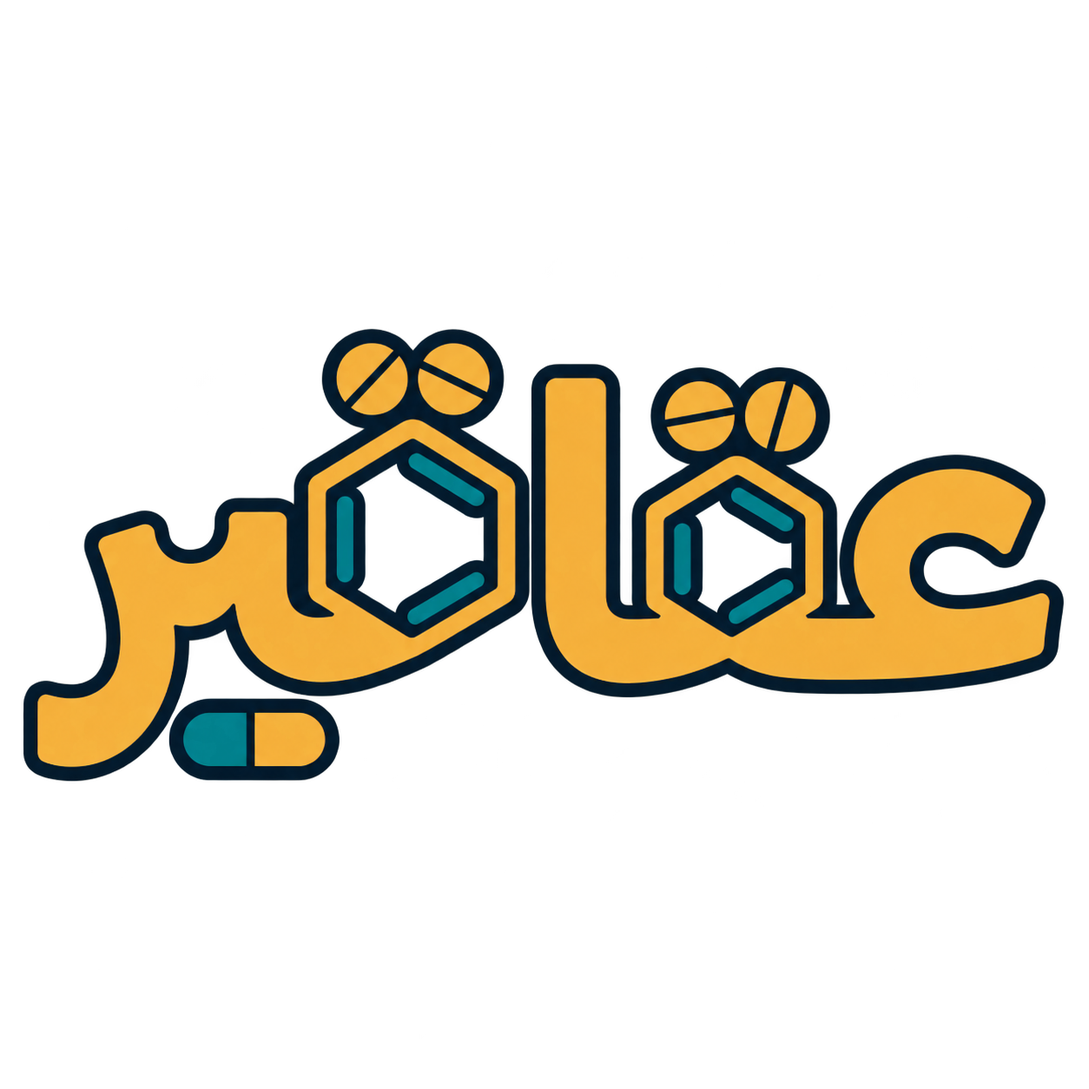
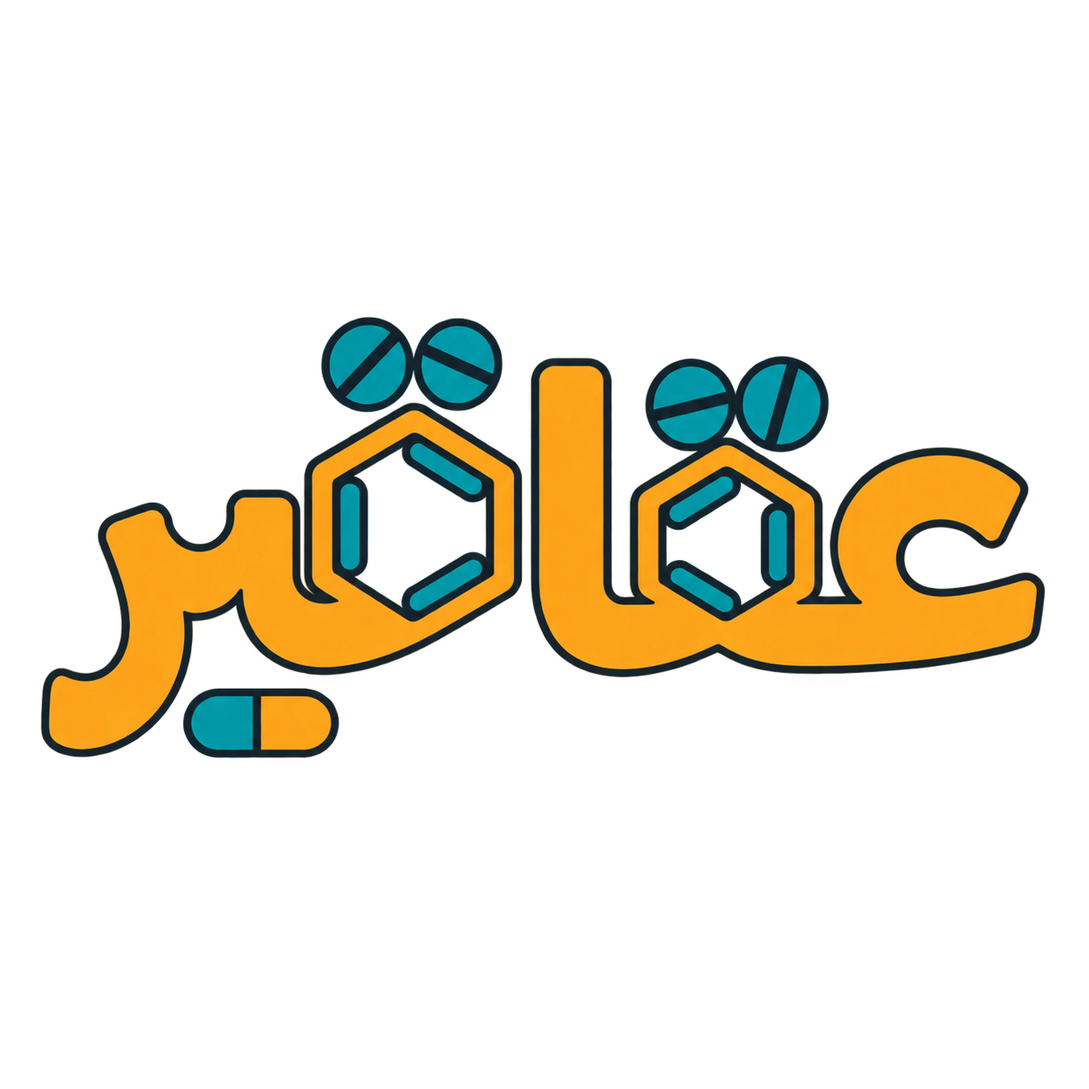
Refactor splash screen animation and artwork
- Updated the splash exit animation to scale the logo from its native size to 1.6x while fading out, replacing the previous internal ring rotation.
- Introduced a new `SplashArtwork` object for shared bitmap decoding of the launcher artwork.
- Revised the launcher artwork to soften the gold and adjust the outline, ensuring a flatter finish while retaining key design elements.
- Updated documentation to reflect changes in branding and splash screen behavior.
- Added new prompts for artwork adjustments and maintained a clean repository by removing obsolete artwork links.

Changed region(s): [[0.0, 0.2799, 0.9952, 0.7153]]

diff --git a/app/src/main/kotlin/com/aqaqeer/app/ui/SplashExit.kt b/app/src/main/kotlin/com/aqaqeer/app/ui/SplashExit.kt
@@ -12,6 +12,7 @@ import android.view.ViewGroup
 import android.view.ViewTreeObserver
 import android.view.animation.PathInterpolator
 import android.widget.FrameLayout
+import android.widget.ImageView
 import androidx.core.splashscreen.SplashScreenViewProvider
 import kotlinx.coroutines.suspendCancellableCoroutine
 import kotlin.coroutines.resume
@@ -38,7 +39,7 @@ internal suspend fun awaitSplashLayout(decor: ViewGroup) {
     }
 }
 
-/** Counter-rotating internal ring lines, followed by a fade into the ready application. */
+/** Enlarge the complete emblem while fading into the ready application. */
 internal fun animateSplashExit(provider: SplashScreenViewProvider, decor: ViewGroup, background: Int, bitmap: Bitmap): Animator? {
     if (!ValueAnimator.areAnimatorsEnabled() || decor.width == 0 || decor.height == 0) {
         provider.remove()
@@ -50,7 +51,7 @@ internal fun animateSplashExit(provider: SplashScreenViewProvider, decor: ViewGr
     val icon = provider.iconView
     val iconLocation = IntArray(2).also(icon::getLocationOnScreen)
     val decorLocation = IntArray(2).also(decor::getLocationOnScreen)
-    // Keep the full logo stationary at the native splash size and center, without its icon mask.
+    // Begin at the native splash size and center, then grow the complete unmasked artwork.
     val nativeEdge = if (icon.width > 0) icon.width * 0.66f else 190f * density
     val edge = minOf(nativeEdge, width * 0.86f, height * 0.62f, 420f * density).toInt().coerceAtLeast(1)
     val centerX = if (icon.width > 0) iconLocation[0] - decorLocation[0] + icon.width / 2 else width / 2
@@ -61,7 +62,12 @@ internal fun animateSplashExit(provider: SplashScreenViewProvider, decor: ViewGr
         isClickable = false
         isFocusable = false
     }
-    val emblem = SplashEmblemView(decor.context, bitmap)
+    val emblem = ImageView(decor.context).apply {
+        scaleType = ImageView.ScaleType.FIT_CENTER
+        setImageBitmap(bitmap)
+        pivotX = edge / 2f
+        pivotY = edge / 2f
+    }
     layer.addView(emblem, FrameLayout.LayoutParams(edge, edge, Gravity.TOP or Gravity.LEFT).apply {
         leftMargin = centerX - edge / 2
         topMargin = centerY - edge / 2
@@ -75,19 +81,23 @@ internal fun animateSplashExit(provider: SplashScreenViewProvider, decor: ViewGr
     layer.layout(0, 0, width, height)
     provider.remove()
     return AnimatorSet().apply {
-        val rings = ValueAnimator.ofFloat(0f, 360f).apply {
-            duration = 640
-            interpolator = PathInterpolator(0.4f, 0f, 0.2f, 1f)
-            addUpdateListener { emblem.ringDegrees = it.animatedValue as Float }
+        playTogether(
+            ObjectAnimator.ofFloat(emblem, View.SCALE_X, 1f, 1.6f),
+            ObjectAnimator.ofFloat(emblem, View.SCALE_Y, 1f, 1.6f),
+            ObjectAnimator.ofFloat(layer, View.ALPHA, 1f, 0f),
+        )
+        duration = 600
+        interpolator = PathInterpolator(0.22f, 0f, 0.2f, 1f)
+        var removed = false
+        fun removeLayer() {
+            if (!removed) {
+                removed = true
+                decor.removeView(layer)
+            }
         }
-        val fade = ObjectAnimator.ofFloat(layer, View.ALPHA, 1f, 0f).apply {
-            duration = 160
-            startDelay = 560
-            interpolator = PathInterpolator(0.22f, 0f, 0.2f, 1f)
-        }
-        playTogether(rings, fade)
         addListener(object : AnimatorListenerAdapter() {
-            override fun onAnimationEnd(animation: Animator) { decor.removeView(layer) }
+            override fun onAnimationCancel(animation: Animator) { removeLayer() }
+            override fun onAnimationEnd(animation: Animator) { removeLayer() }
         })
         start()
     }

diff --git a/app/src/main/kotlin/com/aqaqeer/app/ui/SplashArtwork.kt b/app/src/main/kotlin/com/aqaqeer/app/ui/SplashArtwork.kt
@@ -1,0 +1,15 @@
+package com.aqaqeer.app.ui
+
+import android.content.res.Resources
+import android.graphics.Bitmap
+import android.graphics.BitmapFactory
+import com.aqaqeer.app.R
+
+/** Shares a bounded decode of the selected launcher artwork with the splash exit. */
+internal object SplashArtwork {
+    private var cached: Bitmap? = null
+    @Synchronized fun bitmap(resources: Resources): Bitmap = cached ?: requireNotNull(
+        BitmapFactory.decodeResource(resources, R.drawable.aqaqeer_launcher,
+            BitmapFactory.Options().apply { inSampleSize = 2; inScaled = false })
+    ).also { cached = it }
+}

diff --git a/docs/validation.md b/docs/validation.md
@@ -2,11 +2,23 @@
 
 [Requirements](requirements.md) define acceptance; [plan](plan.md) owns remaining work. The evidence manifest (local-only: `../local/verification/manifest.json`) retains original results, public hashes and provenance. Ignored evidence may be absent in fresh checkouts. Source checks, compilation, runtime results and human acceptance remain distinct.
 
+## Softer gold artwork — 2026-11-17
+
+Used built-in imagegen to soften the heavy outline/finish while retaining rich warm gold, then applied the user's successive refinements: complementary fixed teal bonds in the right ring, bolder split lines in the four round tablet dots, a teal tablet-colour trial with a requested 10% enlargement, followed by a requested 5% reduction from that trial. The exact [edit prompts](../assets/branding/launcher-tablets-prompt.txt) are retained with [provenance](../assets/branding/launcher-revision.md). Percentages describe generation targets, not a measured pixel-exact resize. Visually reviewed the final arrangement; restored a square canvas after a rectangular intermediate output. The selected result is a 1254 × 1254 RGBA PNG with alpha 0–255 and fully transparent corners. Generated edits are not pixel-preserving.
+
[1 lines of base64/hex data omitted]
+
+## Current artwork references — 2026-11-17
+
[1 lines of base64/hex data omitted]
+
+The source-only repository integrity check and whitespace check passed with no reported problems. Documentation-only changes; no artwork bytes, production code, tests, builds, lint, devices or versions were changed or executed. Android visual acceptance remains unverified.
+
 ## String resource organization — 2026-11-17
 
 At starting revision `136dd94`, renamed all 756 numbered UI string identifiers using reviewed feature/purpose/role names and retained 114 existing semantic identifiers. Moved all 870 entries from strings_ui.xml, strings_review.xml and review_strings.xml into twelve feature-based strings files, then removed the three original files. Kept the main/demo app_name files unchanged. Updated 900 explicit resource references across 39 source files, including identifier-only edits in nine test files; no UI tags, saved keys, assertions, business behavior or displayed copy were edited.
 
-Static checks accounted for each entry exactly once with a unique target name/file and compared each raw XML entry byte-for-byte after restoring its old name: text, quoting/escapes, placeholders and attributes match the starting entries. XML/configuration-name/reference checks passed; no old numbered identifiers or unresolved string references remain in checked production/flavor/test/helper/document paths. Compared every edited source file with its original after applying only the reference mapping; all matched, including the test files. Whitespace checks passed. The repository integrity check still reports the two pre-existing missing artwork links in assets/branding/launcher-revision.md; this unrelated failure is not a full-check pass.
+Static checks accounted for each entry exactly once with a unique target name/file and compared each raw XML entry byte-for-byte after restoring its old name: text, quoting/escapes, placeholders and attributes match the starting entries. XML/configuration-name/reference checks passed; no old numbered identifiers or unresolved string references remain in checked production/flavor/test/helper/document paths. Compared every edited source file with its original after applying only the reference mapping; all matched, including the test files. Whitespace checks passed. At that checkpoint, the repository integrity check reported two obsolete artwork links; the later current-artwork cleanup recorded above resolves them.
 
 Tests were inspected/edited only for resource references; none were authored or executed. No Gradle, compilation/resource processing, build, packaging, lint, workflow dispatch, migrations, versions or devices were involved. Android rendering and compilation remain unverified; [remaining acceptance](plan.md#string-resource-organization--source-implemented--2026-11-17) requires separate authorization.
 
@@ -14,7 +26,7 @@ Tests were inspected/edited only for resource references; none were authored or 
 
 Implemented the approved production-source batch: close/finite-duration snackbars; session-only, content-scoped Home notice/card-tip dismissal with individually filtered expanded actions; preserved backup snooze and business guards; Home grid/bulk/bottom rendering extraction and current-callback action bundles; Material button/chip/dialog/card wrappers; typed routes with existing saved encodings/draft keys; explicit field instructions, saveable visited flags and unsaved secrets/visibility; icon/dimension/motion/leading/shape tokens; subtly lifted AMOLED containers; unchanged status palettes in explicitly app-theme-qualified resources; explicit accent roles/info tone; configuration-scoped UI string/theme reads, shared badge presentation and contact email; and the repository literal guard. Existing adaptive phone columns, selection/projection guards, clocks and edge animation remain.
 
-Work began at `aa0fdc3`; HEAD advanced through `c54371f`, `6f60e36` and `ddcaedf`, incorporating source batches during work. Rechecked current production files and preserved those commits. Production call-site/state/semantics review, a lexical delimiter inspection of 47 UI Kotlin files, production string/colour-reference and XML checks, and whitespace checks found no relevant issue. Compared both status resource palettes and all existing default string resources against the starting revision: existing values/IDs were preserved. The source-only repository checker found no UI literal-policy violation but reported two pre-existing missing artwork links in assets/branding/launcher-revision.md (aqaqeer-icon-gold-teal.png and aqaqeer-icon-gold-teal-navy.png); the full checker is therefore not a pass.
+Work began at `aa0fdc3`; HEAD advanced through `c54371f`, `6f60e36` and `ddcaedf`, incorporating source batches during work. Rechecked current production files and preserved those commits. Production call-site/state/semantics review, a lexical delimiter inspection of 47 UI Kotlin files, production string/colour-reference and XML checks, and whitespace checks found no relevant issue. Compared both status resource palettes and all existing default string resources against the starting revision: existing values/IDs were preserved. At that checkpoint, the source-only repository checker found no UI literal-policy violation but reported two obsolete artwork links; the later current-artwork cleanup recorded above resolves them.
 
 No tests were inspected/authored/executed; no Gradle, compilation, builds, packaging, lint, workflow dispatch, migration or device work occurred. Compilation (including existing test call-site compatibility), Android rendering/lifecycle/accessibility and measured performance remain unverified. Existing build/runtime results predate this batch. [Remaining acceptance and deferrals](plan.md#android-ui-cleanup--source-implemented--2026-11-17) are tracked separately; performance tooling remains prioritized planning only.
 
@@ -50,11 +62,12 @@ At the user’s request, removed Home’s four projection placeholders and the s
 
 Removed the redundant additional-results hint/count and other-section shortcut chips beneath Home search at the user’s request. Section-grouped other-section results, tab availability markers and normal search/filter counts remain. Production call-site/delimiter, changed-document local-link and whitespace checks passed; no tests, builds, compilation, lint, workflow or device execution occurred. This source change also postdates the latest hosted build.
 
-## Splash internal-ring animation revision — 2026-11-17
+<a id="splash-internal-ring-animation-revision--2026-11-17"></a>
+## Splash growth and fade — 2026-11-17
 
-User reported the previous splash animation was not working and specified that only the internal ring lines should animate, using `assets/branding/aqaqeer-icon-gold-teal-navy-bold.png` as the current logo. Confirmed that master matches the packaged launcher PNG byte-for-byte. Native splash and its exit now use that PNG; the other in-app bitmap is unchanged. Added two measured masks containing all 5,319/4,290 core teal stroke pixels respectively, with no core gold fill (alpha >128; teal/gold color thresholds inspected), and a source-pixel Canvas view that counter-rotates those regions once over 640 ms while lettering/gold contours remain fixed. The 160 ms fade begins at 560 ms, ending at 720 ms. Both source and destination are clipped; selected PNG bytes are unchanged.
+At the user's request, replaced the internal-ring rotation with uniform whole-logo growth and simultaneous fade. SplashExit now uses a standard ImageView and synchronized 600 ms scale-X/scale-Y (1× to 1.6×) and layer-opacity (1 to 0) animations around the native splash center, with no delayed fade. Removed the custom masked ring view and retained its bounded shared bitmap decode in SplashArtwork. Completion and cancellation remove the attached layer idempotently. Local-readiness gating, IO decoding, valid-layout hand-off, disabled-animation bypass, theme backgrounds and current artwork bytes remain unchanged.
 
-The earlier exit returned immediately on zero-size decor bounds and lasted only 260 ms. These are source observations, not an established cause on the user’s device. The revised lifecycle coroutine awaits valid layout; an ordinary attached decor child replaces the drawing overlay, and completion/cancellation removes it. Disabled animations bypass it and cancellation before hand-off removes the native splash. Source call-site/delimiter/XML/resource, mask-to-master pixel analysis, changed-document local-link and whitespace checks passed. No tests, Gradle, compilation, lint, workflow or device execution occurred; the latest hosted build predates this change. Actual Android visibility/timing, warm/cold starts, disabled/reduced motion, zero-size/layout cancellation and physical visual acceptance remain unverified. HEAD advanced from `5d0a123` to `c83bb8c` during work, incorporating the source batch; rechecked current source/resources and preserved the concurrent commits.
+Reviewed production call sites, animator properties, placement and cleanup paths; source-only repository integrity and whitespace checks passed. No tests were inspected/authored/run; no Gradle, compilation, build, packaging, lint, workflow or device execution occurred. Earlier hosted builds predate this revision. Actual growth/fade rendering, native-to-overlay continuity, normal/reduced/disabled motion, cold/warm startup and cancellation remain unverified; remaining acceptance is in I3 in the plan. This supersedes the earlier source-only internal-ring design.
 
 ## Search controls and direct admin edit — 2026-11-17
 

diff --git a/docs/plan.md b/docs/plan.md
@@ -9,7 +9,6 @@ The approved source batch adds session dismissal controls, finite snackbars, foc
 | ID / priority | Dependency | Remaining work / acceptance |
 | --- | --- | --- |
 | U1 / P1 — Compile and Android acceptance | Separate build/test/device or hosted authorization | Both flavors; snackbar close/timeout/Undo/View and route ownership; independent notice/card-tip dismissal across navigation/rotation, changed content and new sessions; unchanged backup snooze/domain blocks; restored navigation/draft keys and role restrictions; forms/secret visibility and validation; grid keys/scroll/bulk/editor guards, phone two-column layout, large text/IME/wide panes, all accents and manual light/dark/AMOLED contrast. |
-| U2 / P2 — Source integrity links | Separate decision for unrelated artwork records | The full source-only checker reports two pre-existing missing artwork links in assets/branding/launcher-revision.md; no UI token/resource/delimiter/whitespace finding was observed. |
 
 Deferred: image/font reduction, component gallery and screenshot testing. Preserve current assets, adaptive columns and lifecycle clocks; no measured performance improvement is claimed.
 
@@ -27,7 +26,7 @@ Approved production changes cover initial-v1 attribution-free storage/files, tim
 | --- | --- | --- |
 | I1 / P1 — Generated schema | Separate compilation/KSP authorization | Regenerate and review the initial Room version-1 export from current models. The retained export is historical; do not handwrite its identity hash. |
 | I2 / P1 — Compilation and format acceptance | Separate authorization; I1 | Hosted workflow 03 passed both production/JVM flavor compilations and 545 JVM cases per flavor, including initial-format rejection/round trips and merge ordering. Remaining: Android instrumentation compilation/runtime, fresh initialization and non-destructive incompatible-database acceptance. The later [workflow 10 debug build](validation.md#hosted-debug-publication--2026-11-17) compiled/packaged both flavors at `e9dadd4` without running tests. No conversions are in scope. |
-| I3 / P1 — UI/session acceptance | Separate authorization; I2 | All four search/tab placements, large text, narrow/wide layouts, stable selection, role restrictions, refresh failures/no-change fetches, marker accumulation/refresh and current-plus-next session lifetime, task/process versus rotation/backgrounding, Sunday/midnight boundaries. Check Home result retention during typing/filtering/availability saves, pharmacy/section/grouping/role invalidation and fresh-only bulk select-visible; large pending-review scrolling/filtering with retained conflict choices and unchanged publication/recovery controls; off-main splash decode and cancellation before hand-off. Check the revised gold/teal/navy launcher artwork, embedded outline, transparency and normal/round icon rendering across launcher backgrounds; check the revised stationary-logo splash with counter-rotating internal teal lines and fade at normal/reduced/disabled system animation scales, cold/warm launch and cancellation, Settings option alignment/independent labels, swatches, direct bordered preview and narrow/large-text scrolling, fresh initial demo revision-1 initialization with 80 explicit non-UNKNOWN pairs, initial grouping-off display and Settings enable/mode persistence, compact drawer spacing/48 dp targets, bordered icon headings/expanded state, Arabic alphabetical category order with Uncategorized last, and wrapped large-text labels, History, menus, forms, disclosures and previews, including the revised 24 dp dosage-form vectors in light/dark/AMOLED and compact bottom-search/filter sizing with normal/large Arabic text, clear action and keyboard, including a stationary pharmacy toolbar during keyboard show/hide; verify reader AVAILABLE/LOW visibility, section-grouped cross-section results without the redundant hint/count/chips below search, and demo «لانزابين» tab availability markers (including active-section-first result groups, empty-current matches, per-section card statuses/keys, bulk isolation, already-visible IDs, LOW and cleared queries), reset and admin sign-in/sign-out freshness, admin Available-only toggling, distinct extra-filter section/scrolling and sheet synchronization, reader inline fetched-chip/clear-action sizing in both placements, rounded tab borders/filled selected tabs and contrast in all themes and both placements, absence of separate quick bars, and fetched-chip appearance/disappearance while retaining a selected filter. |
+| I3 / P1 — UI/session acceptance | Separate authorization; I2 | All four search/tab placements, large text, narrow/wide layouts, stable selection, role restrictions, refresh failures/no-change fetches, marker accumulation/refresh and current-plus-next session lifetime, task/process versus rotation/backgrounding, Sunday/midnight boundaries. Check Home result retention during typing/filtering/availability saves, pharmacy/section/grouping/role invalidation and fresh-only bulk select-visible; large pending-review scrolling/filtering with retained conflict choices and unchanged publication/recovery controls; off-main splash decode and cancellation before hand-off. Check the softened gold/teal/navy launcher/splash artwork, retained rich gold, thinner slate outline, complementary fixed ring bonds, teal tablets/bolder split lines and final sizing, transparency and normal/round icon rendering across launcher backgrounds; check the revised whole-logo growth/fade splash (1× to 1.6× over 600 ms, fixed center, no spinning parts) at normal/reduced/disabled system animation scales, cold/warm launch and cancellation, Settings option alignment/independent labels, swatches, direct bordered preview and narrow/large-text scrolling, fresh initial demo revision-1 initialization with 80 explicit non-UNKNOWN pairs, initial grouping-off display and Settings enable/mode persistence, compact drawer spacing/48 dp targets, bordered icon headings/expanded state, Arabic alphabetical category order with Uncategorized last, and wrapped large-text labels, History, menus, forms, disclosures and previews, including the revised 24 dp dosage-form vectors in light/dark/AMOLED and compact bottom-search/filter sizing with normal/large Arabic text, clear action and keyboard, including a stationary pharmacy toolbar during keyboard show/hide; verify reader AVAILABLE/LOW visibility, section-grouped cross-section results without the redundant hint/count/chips below search, and demo «لانزابين» tab availability markers (including active-section-first result groups, empty-current matches, per-section card statuses/keys, bulk isolation, already-visible IDs, LOW and cleared queries), reset and admin sign-in/sign-out freshness, admin Available-only toggling, distinct extra-filter section/scrolling and sheet synchronization, reader inline fetched-chip/clear-action sizing in both placements, rounded tab borders/filled selected tabs and contrast in all themes and both placements, absence of separate quick bars, and fetched-chip appearance/disappearance while retaining a selected filter. |
 | D1 / P1 — Demo modes | Separate compilation/runtime authorization | Confirm Reader initial mode and AVAILABLE/LOW visibility; fake Admin medication/status/bulk/Undo/taxonomy edits and pending/History; role switching/reset/process death/rotation; stale targets and protected taxonomy; old installed rows do not enter the workspace; no standard-data/identity/DB writes or connection/network/publication/file-exchange side effects. Source implementation is recorded in validation; no test work or execution is granted here. |
 | I4 / P1 — Reservation acceptance | Separate packaging/hosted authorization | Workflow 10 initially reserved code 1 at `68cb2fb`; run 43967349302 reserved code 7 at `e9dadd4` and built/signed/published both debug flavors. Remaining: local/hosted coordination, wrapper locking across platforms and installation/update continuity. Preserve old tags and live publication/key/installation identities; offline Python reservation cases remain unexecuted. |
 

diff --git a/docs/architecture.md b/docs/architecture.md
@@ -113,7 +113,7 @@ Shared 16/12/8/4 dp spacing and ≥48 dp targets underpin `FormPage` persistent 
 
 CollapsibleGroup shares disclosure semantics with screen-owned expansion. NoticeStrip shares severity/action presentation; focused Settings/empty-state/step helpers reuse existing controls. Status menus anchor to badges while screens retain captured expected values and domain callbacks. The selection slot is reserved before bulk mode, and the bottom bulk bar aligns to page margins. Adaptive grids use 160 dp × max(1, fontScale). Top tabs stay pinned. Settings owns grouping preferences. Its text choices reuse RadioChoiceRows under labeled blocks, with color swatches and prior callback/tags retained; group headers align to the body, separate settings use 24 dp spacing, and layout/preview, grouping/mode and Hijri/help stay together. The direct preview has its own border. Settings retains three saveable disclosure groups, initially Appearance only; the inline fetched chip and filter sheet share SavedStateHandle inputs. Drawer uses compact selectable Material surfaces (48 dp minimum, growing labels, clipped indications) with the same 12 dp medium shape as medication cards, 12 dp horizontal item padding, zero within-group gaps and 4 dp between groups. DrawerGroup owns bordered medium-shape disclosure headers with category/history/info AppIcons, subtle expanded fill and spoken expansion state, replacing text arrow glyphs while retaining screen-owned expansion. CollapsibleGroup exposes optional content spacing; other screens retain its existing default. Drawer category presentation is remembered by category list and sorts normalized Arabic names, then original spelling/stable ID, with the system Uncategorized ID forced last after the separately pinned All categories action; stored catalog order is unchanged. Drawer keeps category shortcuts and a fixed Settings footer; admin links route through the hub.
 
-Launch colors share XML resources with Compose, and palettes are remembered by theme/accent/system resolution. Saved launch hints drive a 720 ms decorative splash exit. SplashArtwork decodes the selected launcher PNG at sample 2 on Dispatchers.IO while the database initializes; MainActivity awaits it and valid decor dimensions in its lifecycle coroutine. SplashEmblemView keeps the selected bitmap’s gold lettering/contours fixed while drawing source pixels inside two measured gold-free masks at opposite rotations (360 degrees over 640 ms). Both source and destination clips prevent neighboring artwork from rotating into the rings. A normal decor child follows native icon placement, fades for 160 ms after 560 ms and is removed when the animator ends/cancels. Destruction cancels the animator; cancellation before hand-off removes the native splash. System-disabled animations skip the exit. The native keep condition still depends only on database readiness, without a startup timer or network wait. `BrandAssets` separately shares bounded sampled in-app decodes; `EmptyCapsule` draws a dedicated native gold/teal/navy illustration at 30% opacity. About retains its own emblem/name. [Requirements §9](requirements.md#9-medication-behavior-and-presentation) owns detailed visual values.
+Launch colors share XML resources with Compose, and palettes are remembered by theme/accent/system resolution. Saved launch hints drive a 600 ms decorative splash exit. SplashArtwork decodes the selected launcher PNG at sample 2 on Dispatchers.IO while the database initializes; MainActivity awaits it and valid decor dimensions in its lifecycle coroutine. A standard ImageView starts at native icon placement and scales the complete bitmap from 1× to 1.6× around its center while the full splash layer fades to transparent over the same interval. AnimatorSet synchronizes both scale axes and opacity with no delay or rotation. The attached decor child is removed idempotently on completion/cancellation; destruction cancels the animator, and cancellation before hand-off removes the native splash. System-disabled animations skip the exit. The native keep condition still depends only on database readiness, without a startup timer or network wait. `BrandAssets` separately shares bounded sampled in-app decodes; `EmptyCapsule` draws a dedicated native gold/teal/navy illustration at 30% opacity. About retains its own emblem/name. [Requirements §9](requirements.md#9-medication-behavior-and-presentation) owns detailed visual values.
 
 Home sections and search/filter controls have separate composables; Home owns state, modal eligibility and placement. `HomePreferences.sectionsAtBottom/searchAtBottom` default true and use installation-local DataStore keys excluded from shared/backup payloads. Bottom search uses BasicTextField with the existing Material outlined decoration, reduced vertical padding and a 48 dp minimum that can grow with text; the filter control is 48 dp. Both search placements use 24 dp rounded corners; top search retains its standard field sizing. Reader projections, including demo Reader, force AVAILABLE/LOW independently of user filters; effective reader filters ignore saved admin statuses without overwriting them. Browse requests/results include the reader role restriction, and Home checks it for freshness so an older admin projection is withheld after sign-out. Search and cross-section projections apply the same restriction. Readers have no stock chip/status controls or separate quick-filter row; their fetched chip stays inside the trailing search-field row immediately before Filters in both placements, shown while markers exist or it remains selected. The 48 dp filter control stays last at the field’s trailing end for every role; leading search/clear share one slot. Editable admins get a 48 dp Add control outside the field in the former external-filter position; the Select shortcut and Scaffold floating Add are removed. Simulated demo Admin retains full catalog/status visibility. The admin-only Available-only chip in the filter sheet atomically replaces saved statuses with AVAILABLE/LOW, or clears them when that exact pair is selected; individual statuses, categories and extra filters share that sheet. The sheet groups status, category and extra filters under separate headings with 24 dp section gaps; summary/reset comes after the groups. Neither role has a separate quick-filter row. MainActivity explicitly uses adjustResize for keyboard insets; the Scaffold toolbar remains outside the content-only imePadding so the keyboard resizes content rather than panning the toolbar. Bottom search precedes bottom sections; IME visibility temporarily removes bottom sections. The fixed/scrollable tab rows share a 1 dp outlineVariant border with 16 dp rounded corners in either placement; the current tab uses primary/onPrimary fill/text, bold labeling and 12 dp medium-shape clipping, alongside the selected indicator; the redundant row divider is omitted. Width measurement reserves bold-label width to avoid shifting when selection changes. Top tabs remain pinned even at compact heights or large text. Add follows the search row in either placement, so it requires neither floating clearance nor keyboard-specific hiding. Busy/modal/bulk/access guards remain in Home. Taxonomy context resets confirmation and initializes blank sections active. Distinct workflows may use distinct components instead of expanding one generic component API.
 

diff --git a/docs/branding.md b/docs/branding.md
@@ -1,12 +1,12 @@
 # Branding
 
-The launcher uses the revised [gold/teal/navy artwork](../assets/branding/aqaqeer-icon-gold-teal-navy-bold.png), packaged as [a transparent RGBA bitmap](../app/src/main/res/drawable-nodpi/aqaqeer_launcher.png). Warm gold lettering, clearer jewel-teal details and a bold deep navy outline are baked into the artwork itself. Normal/round manifest icons reference this same non-adaptive bitmap, without a backing shape, adaptive icon or monochrome layer. The previous runtime outline wrapper is removed.
+The launcher uses the revised [gold/teal/navy artwork](../assets/branding/aqaqeer-icon-gold-teal-navy-bold.png), packaged as [a transparent RGBA bitmap](../app/src/main/res/drawable-nodpi/aqaqeer_launcher.png). Rich warm gold lettering, restrained teal details and a thinner slate-navy outline are baked into the artwork itself. The revised finish is flatter and less harsh while keeping the gold bright, with only slight softening. The round tablet dots are teal with bolder score lines, and the two rings have complementary fixed internal-bond orientations. Tablet sizing follows the latest 5% reduction from the enlarged trial. Normal/round manifest icons reference this same non-adaptive bitmap, without a backing shape, adaptive icon or monochrome layer. The previous runtime outline wrapper is removed.
 
 The retained [gold/teal bitmap](../app/src/main/res/drawable-nodpi/aqaqeer_logo.png) remains packaged as [the shared in-app resource](../app/src/main/res/drawable-nodpi/aqaqeer_logo.png) for toolbar, drawer, onboarding, About and PDF headers. Empty states have their own illustration. [Generation provenance and prompt](../assets/branding/launcher-revision.md).
 
 The splash uses the selected current gold/teal/navy emblem with 17% transparent insets, about a 190 dp bitmap edge. App-controlled startup and exit backgrounds follow the saved local theme/accent palette, including pure black for AMOLED and the crimson neutral backgrounds. DisplayPreferences mirrors only theme/accent launch hints into private SharedPreferences; DataStore stays authoritative, refreshes those hints off-main and supplies the actual palette at exit. With no hint, follow system mode/gold. Android can show a system-themed starting frame before activity code runs, especially on Android 12+; exact OEM behavior is not verified. Light/dark resource fallbacks and matching system-bar icons replace the fixed ink presentation.
 
-The 720 ms exit keeps the logo at the native inset bitmap’s size/center. The internal teal line sets turn once in opposite directions over 640 ms; a 160 ms fade starts at 560 ms. Lettering, gold contours, dots and capsule remain stationary. SplashArtwork decodes the same packaged PNG as the launcher on IO. SplashEmblemView uses measured gold-free masks tied to the 1254 px selected master, clipping both the static base and the rotated source pixels; no artwork pixels are rewritten. Update those masks if the selected master changes.
+The 600 ms exit starts at the native inset bitmap’s size and center. The complete logo scales uniformly from 1× to 1.6× while the splash layer fades from opaque to transparent over the same interval, revealing the ready app. Its center stays fixed; there is no rotation or independent ring animation. SplashArtwork decodes the same packaged PNG as the launcher on IO, and a standard ImageView renders the intact bitmap. No artwork pixels are rewritten.
 
 The exit waits for valid decor dimensions instead of abandoning animation on a zero-size callback. Its decorative layer is an ordinary attached view with standard invalidation; it consumes no input and is removed on completion/cancellation. Disabled system animations skip it; activity destruction cancels the exit. Essential local database readiness still gates native dismissal, without a timer or network wait. Android rendering of this revision and the cause of the user’s previously missing animation remain unverified.
 

diff --git a/docs/requirements.md b/docs/requirements.md
@@ -333,11 +333,11 @@ Use the existing vector capsule in the empty wide-screen detail pane, preserving
 
 ### Branding and startup
 
-Branding: use the selected current gold/teal/navy bitmap for launcher and splash. About and other in-app emblems retain their existing gold/teal bitmap. The selected launcher artwork uses warm gold lettering, jewel-teal details and a bold deep navy outline embedded in the transparent, non-adaptive RGBA bitmap, without backing shapes or monochrome/adaptive layers. Home shows the pharmacy name with a small original emblem; onboarding includes the original emblem and prioritizes joining over creating. Medication-detail titles use the scientific name. See [branding](branding.md).
+Branding: use the selected current gold/teal/navy bitmap for launcher and splash. About and other in-app emblems retain their existing gold/teal bitmap. The selected launcher artwork retains rich, bright warm gold with only slight softening, restrained teal details and a thinner slate-navy outline with a flatter finish embedded in the transparent, non-adaptive RGBA bitmap, without backing shapes or monochrome/adaptive layers. Use teal round tablet dots with bold slate score lines and the selected size after the 5% reduction from the enlarged trial. The first ring in Arabic reading order (right) uses the alternate three internal-bond sides to the left ring; this orientation is fixed artwork, not rotation animation. Home shows the pharmacy name with a small original emblem; onboarding includes the original emblem and prioritizes joining over creating. Medication-detail titles use the scientific name. See [branding](branding.md).
 
 V1 explicitly includes a launch splash screen and an About screen. Use a simple branded splash using the logo, whose lettering includes عقاقير, with a background and system-bar icon contrast matching the saved local theme/accent (pure black in AMOLED), preserving the selected artwork. The platform starting frame may precede local-preference availability; use system-mode resource fallbacks without blocking startup to read DataStore.
 
-Continue into the existing Home/onboarding/recovery routing as soon as essential local startup is ready. Do not add a forced minimum display duration or wait for Telegram refresh. Use a clearly visible 720 ms splash exit: only the internal teal line sets counter-rotate one full turn over 640 ms, with a 160 ms fade starting at 560 ms. Keep gold ring contours, Arabic lettering and logo size/position fixed. Respect disabled system animations and keep it within launch routing rather than adding an introduction screen.
+Continue into the existing Home/onboarding/recovery routing as soon as essential local startup is ready. Do not add a forced minimum display duration or wait for Telegram refresh. Use a 600 ms splash exit: the complete logo grows smoothly from its native splash size to 1.6× while the splash layer fades out over the same interval. Keep its center fixed; no internal parts spin or move independently. Respect disabled system animations and keep it within launch routing rather than adding an introduction screen.
 
 Required startup failures lead to their recovery screen. About uses the existing Arabic interface and the app-information/developer-credit/contact requirements in section 10.
 

diff --git a/assets/branding/launcher-revision.md b/assets/branding/launcher-revision.md
@@ -1,13 +1,11 @@
 # Selected artwork provenance
 
-The [transparent gold/teal RGBA PNG](aqaqeer-icon-gold-teal.png) was generated from the historical gold master (`aqaqeer-logo-gold.png`, absent from this checkout) using imagegen. It remains the shared in-app/splash/About/PDF artwork and reference for the revised launcher; [branding](../../docs/branding.md) owns placement. The selected gold/teal PNG is retained here.
-
-Source and output are **1254 × 1254 RGBA**, alpha 0–255 with transparent corners. Alpha >64 bounds changed from **(63,408)–(1179,869)** to **(39,389)–(1210,884)**. The selected output uses deeper gold, restrained teal ring/capsule details and tighter transparent margins. It is a generated raster variant with slight shading/contour differences, not a pixel-preserving recolor. No backing shape or adaptive icon is introduced.
+Only the selected current launcher master is retained here. [Branding](../../docs/branding.md) owns placement and identifies the resources currently used by the app.
 
 ## Current launcher — 2026-11-17
 
-The revised [gold/teal/navy PNG](aqaqeer-icon-gold-teal-navy-bold.png) was edited from the retained gold/teal reference using built-in imagegen. The exact [palette prompt](launcher-artwork-prompt.txt) and [bold-outline prompt](launcher-outline-bold-prompt.txt) are retained. The user approved the first palette revision and requested a bolder outline; [that earlier revision](aqaqeer-icon-gold-teal-navy.png) remains available. Warm gold lettering, clearer jewel-teal details and bold deep navy contours are embedded in the image itself. The wordmark, rings, upper dots and capsule retain the reference arrangement; generated contours/shading are not pixel-identical.
+The selected [gold/teal/navy PNG](aqaqeer-icon-gold-teal-navy-bold.png) was softened using built-in imagegen from the preceding bold-outline artwork. The [softening prompt](launcher-softened-prompt.txt) records the exact edit; the earlier [palette](launcher-artwork-prompt.txt) and [outline](launcher-outline-bold-prompt.txt) prompts retain generation provenance. Rich warm gold remains bright, with only slight softening. The slate-navy edge is thinner and lighter, teal details remain restrained, and the finish is flatter. The Arabic wordmark, chemical rings and capsule retain their arrangement. The right ring’s three teal bonds occupy the alternate set of sides to the left ring. The four round tablet dots are teal with bolder slate score lines; after an initial enlargement trial, the latest edit requests a 5% reduction from that trial. The [tablet and ring prompts](launcher-tablets-prompt.txt) retain the exact edit sequence. This is a generated variant, not a pixel-preserving recolor.
 
 The final output is **1254 × 1254 RGBA**, with alpha 0–255 and transparent corners. It is copied byte-for-byte to [the launcher resource](../../app/src/main/res/drawable-nodpi/aqaqeer_launcher.png), referenced directly by both manifest icon attributes. No runtime outline wrapper, backing shape or adaptive layer is used. Original in-app bitmap bytes remain unchanged.
 
[2 lines of base64/hex data omitted]
